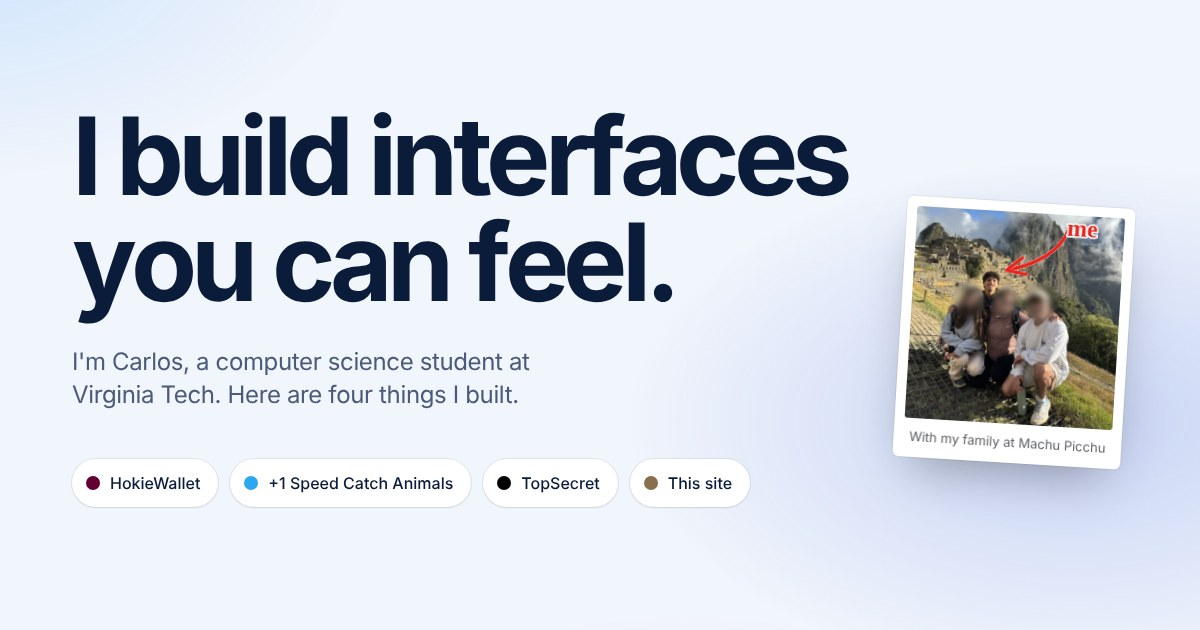
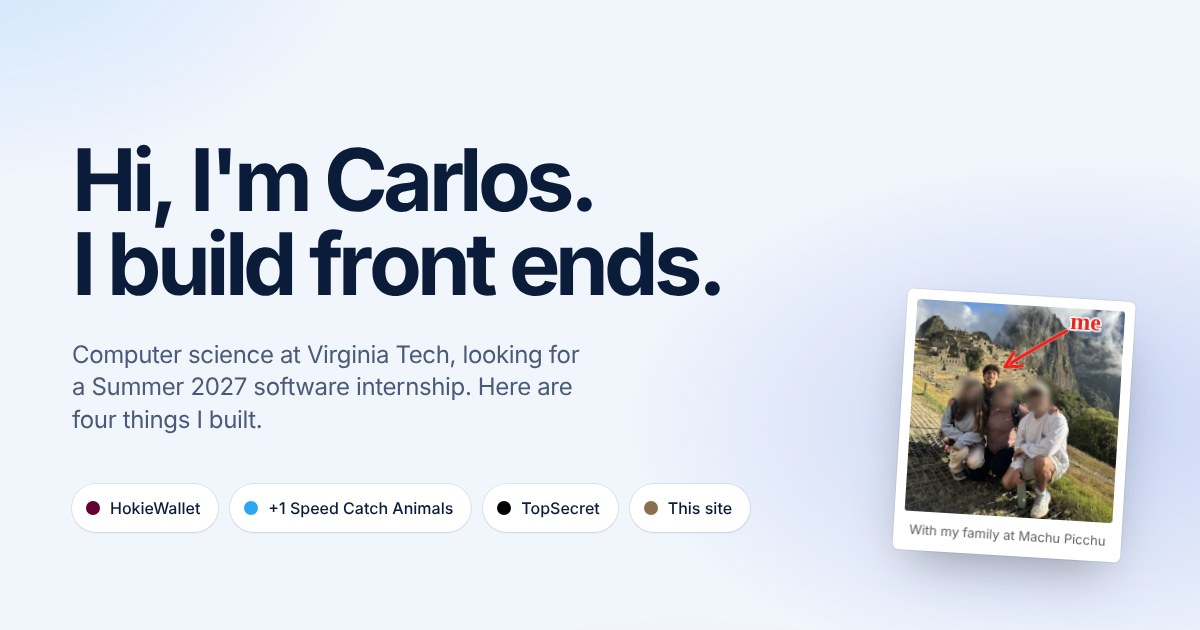
Real HokieWallet screens, new headline, email menu

diff --git a/code/templates/home.html b/code/templates/home.html
@@ -5,10 +5,10 @@
 <meta charset="utf-8">
 <meta name="viewport" content="width=device-width,initial-scale=1">
 <meta name="theme-color" content="#f1f5fc">
-<title>Carlos Zanabria, interfaces you can feel</title>
-<meta name="description" content="Carlos Zanabria builds interfaces. Scroll through HokieWallet, +1 Speed Catch Animals, TopSecret and this site. Computer Science at Virginia Tech, seeking Summer 2027 internships.">
+<title>Carlos Zanabria, front-end developer</title>
+<meta name="description" content="Carlos Zanabria builds front ends. Watch HokieWallet, +1 Speed Catch Animals, TopSecret and this site. Computer Science at Virginia Tech, seeking Summer 2027 internships.">
 <meta property="og:title" content="Carlos Zanabria">
-<meta property="og:description" content="I build interfaces you can feel. Four projects that play themselves. Computer Science at Virginia Tech.">
+<meta property="og:description" content="I build front ends. Four projects that play themselves. Computer science at Virginia Tech, seeking a Summer 2027 internship.">
 <meta property="og:type" content="website">
 <meta property="og:url" content="https://carlos-os-portfolio.onrender.com/">
 <meta property="og:image" content="https://carlos-os-portfolio.onrender.com/static/img/og.jpg">
@@ -16,9 +16,9 @@
 <meta property="og:image:height" content="630">
 <meta name="twitter:card" content="summary_large_image">
 <link rel="icon" href="{{ url_for('static',filename='favicon.svg') }}" type="image/svg+xml">
-<link rel="stylesheet" href="{{ url_for('static',filename='home.css') }}?v=6">
+<link rel="stylesheet" href="{{ url_for('static',filename='home.css') }}?v=7">
 <script>document.documentElement.classList.replace('no-js','js')</script>
-<script defer src="{{ url_for('static',filename='story.js') }}?v=6"></script>
+<script defer src="{{ url_for('static',filename='story.js') }}?v=7"></script>
 </head>
 <body class="home">
 <a class="skip" href="#main">Skip to content</a>
@@ -36,8 +36,8 @@
 
   <section class="intro" data-snap data-chapter="intro" data-bg="#f1f5fc" data-ink="light" aria-labelledby="intro-title">
     <div class="intro-stage">
-      <h1 id="intro-title" class="intro-title" data-split aria-label="I build interfaces you can feel.">I build interfaces <br>you can feel.</h1>
-      <p class="intro-lede">I'm Carlos, a computer science student at Virginia Tech. Here are four things I built.</p>
+      <h1 id="intro-title" class="intro-title" data-split aria-label="Hi, I'm Carlos. I build front ends.">Hi, I'm Carlos. <br>I build front ends.</h1>
+      <p class="intro-lede">Computer science at Virginia Tech, looking for a Summer 2027 software internship. Here are four things I built.</p>
       <ul class="jump" aria-label="Projects on this page">
         <li><a href="#hokiewallet"><span class="jump-swatch" style="--c:#630031"></span>HokieWallet</a></li>
         <li><a href="#plus-one"><span class="jump-swatch" style="--c:#2ba8f0"></span>+1 Speed Catch Animals</a></li>
@@ -48,9 +48,9 @@
         <div class="me-photo">
           <img src="{{ url_for('static',filename='img/me-machu-picchu.webp') }}" srcset="{{ url_for('static',filename='img/me-machu-picchu-sm.webp') }} 476w, {{ url_for('static',filename='img/me-machu-picchu.webp') }} 952w" sizes="(max-width: 860px) 60vw, 300px" width="952" height="969" alt="Carlos standing behind his family at Machu Picchu. A hand-drawn red arrow points to him.">
           <svg class="me-arrow" viewBox="0 0 952 969" aria-hidden="true">
-            <path class="arrow-line" pathLength="1" d="M700 60 C 660 180, 550 235, 428 268"/>
-            <path class="arrow-head" pathLength="1" d="M494 208 L 425 269 L 515 282"/>
-            <text x="760" y="95" text-anchor="middle">me</text>
+            <path class="arrow-line" pathLength="1" d="M690 105 Q 560 185 418 286"/>
+            <path class="arrow-head" pathLength="1" d="M498 278 L 418 286 L 456 216"/>
+            <text x="775" y="95" text-anchor="middle">me</text>
           </svg>
         </div>
         <figcaption>With my family at Machu Picchu</figcaption>
@@ -66,18 +66,18 @@
         <article class="beat" data-beat="0">
           <p class="kicker">Built at VTHacks with a team of four</p>
           <h2 id="wallet-title" class="beat-title big">HokieWallet</h2>
-          <p>A student finance dashboard. I owned the front end.</p>
+          <p>A student finance dashboard. I led the front end.</p>
         </article>
         <article class="beat" data-beat="1">
           <h3 class="beat-title">Every balance, one screen.</h3>
           <p>Built in React on a Node.js back end.</p>
         </article>
         <article class="beat" data-beat="2">
-          <h3 class="beat-title">Budgets you can read at a glance.</h3>
-          <p>What you've spent, and what's left.</p>
+          <h3 class="beat-title">Goals you can see.</h3>
+          <p>What you've saved, and what's left.</p>
         </article>
         <article class="beat" data-beat="3">
-          <h3 class="beat-title">More than ten languages.</h3>
+          <h3 class="beat-title">Ten languages.</h3>
           <p>Use it in the language you think in.</p>
         </article>
         <article class="beat" data-beat="4">
@@ -93,60 +93,15 @@
 
       <div class="device-wrap" aria-hidden="true">
         <div class="browser">
-          <div class="browser-bar"><i></i><i></i><i></i><span>hokiewallet.app</span></div>
-          <div class="hw">
-            <aside class="hw-side">
-              <b class="hw-logo">hw</b>
-              <span class="hw-nav" data-screen-link="1">Overview</span>
-              <span class="hw-nav" data-screen-link="2">Budgets</span>
-              <span class="hw-nav" data-screen-link="3">Language</span>
-              <span class="hw-nav" data-screen-link="4">Accessibility</span>
-            </aside>
-            <div class="hw-main">
-              <section class="hw-screen" data-screen="1">
-                <p class="hw-greet" data-greet>Good to see you, Hokie.</p>
-                <div class="hw-cards">
-                  <div class="hw-card"><span>Bank balance</span><strong data-count="1250.42" data-prefix="$">$1,250.42</strong></div>
-                  <div class="hw-card accent"><span>Hokie Dollars</span><strong data-count="347.80" data-prefix="$">$347.80</strong></div>
-                </div>
-                <ul class="hw-tx">
-                  <li><span>Turner Place</span><b>−$11.40</b></li>
-                  <li><span>Bookstore</span><b>−$32.15</b></li>
-                  <li><span>Paycheck</span><b class="in">+$412.00</b></li>
-                </ul>
-              </section>
-              <section class="hw-screen" data-screen="2">
-                <p class="hw-greet">November budget</p>
-                <ul class="hw-budgets">
-                  <li style="--used:.72"><span>Food</span><i></i><b>$216 of $300</b></li>
-                  <li style="--used:.45"><span>Books &amp; supplies</span><i></i><b>$90 of $200</b></li>
-                  <li style="--used:.9"><span>Transportation</span><i></i><b>$54 of $60</b></li>
-                  <li style="--used:.3"><span>Fun</span><i></i><b>$36 of $120</b></li>
-                </ul>
-              </section>
-              <section class="hw-screen" data-screen="3">
-                <p class="hw-greet hw-lang-greet" data-lang-greet>Good to see you, Hokie.</p>
-                <p class="hw-lang-name" data-lang-name>English</p>
-                <div class="hw-lang-dots" data-lang-dots></div>
-              </section>
-              <section class="hw-screen" data-screen="4">
-                <div class="hw-a11y">
-                  <ul class="hw-toggles">
-                    <li data-toggle="0"><span>Larger text</span><i></i></li>
-                    <li data-toggle="1"><span>High contrast</span><i></i></li>
-                    <li data-toggle="2"><span>Reduce motion</span><i></i></li>
-                  </ul>
-                  <div class="hw-preview" data-preview>
-                    <span>Hokie Dollars</span>
-                    <strong>$347.80</strong>
-                    <small>Updated just now</small>
-                  </div>
-                </div>
-              </section>
-            </div>
+          <div class="browser-bar"><i></i><i></i><i></i><span>Hokie Wallet</span></div>
+          <div class="hw-frame">
+            <img class="hw-real" data-screen="1" src="{{ url_for('static',filename='img/hw-overview.webp') }}" srcset="{{ url_for('static',filename='img/hw-overview-sm.webp') }} 800w, {{ url_for('static',filename='img/hw-overview.webp') }} 1600w" sizes="(max-width: 860px) 94vw, 56vw" width="1600" height="900" alt="">
+            <img class="hw-real" data-screen="2" src="{{ url_for('static',filename='img/hw-savings.webp') }}" srcset="{{ url_for('static',filename='img/hw-savings-sm.webp') }} 800w, {{ url_for('static',filename='img/hw-savings.webp') }} 1600w" sizes="(max-width: 860px) 94vw, 56vw" width="1600" height="900" alt="" loading="lazy">
+            <img class="hw-real" data-screen="3" src="{{ url_for('static',filename='img/hw-spanish.webp') }}" srcset="{{ url_for('static',filename='img/hw-spanish-sm.webp') }} 800w, {{ url_for('static',filename='img/hw-spanish.webp') }} 1600w" sizes="(max-width: 860px) 94vw, 56vw" width="1600" height="900" alt="" loading="lazy">
+            <img class="hw-real" data-screen="4" src="{{ url_for('static',filename='img/hw-access.webp') }}" srcset="{{ url_for('static',filename='img/hw-access-sm.webp') }} 800w, {{ url_for('static',filename='img/hw-access.webp') }} 1600w" sizes="(max-width: 860px) 94vw, 56vw" width="1600" height="900" alt="" loading="lazy">
           </div>
         </div>
-        <details class="how"><summary>How it works</summary><p>A clip-path circle reveal, then one stage whose screens, counters and toggles play on a timer you can pause. Sample data.</p></details>
+        <details class="how"><summary>How it works</summary><p>A clip-path circle reveal, then real screens from the app playing on a timer you can pause. Captured in demo mode with sample data.</p></details>
       </div>
     </div>
   </section>
@@ -319,7 +274,16 @@
     <h2 id="contact-title" class="contact-title">Let's build something.</h2>
     <p class="contact-lede">I'm looking for a Summer 2027 software or data internship in Northern Virginia or remote.</p>
     <p class="actions center">
-      <a class="btn solid" href="mailto:andrezanabria6180@gmail.com">Email me</a>
+      <span class="mail" data-mail>
+        <button type="button" class="btn solid" aria-haspopup="true" aria-expanded="false" aria-controls="mail-menu">Email me</button>
+        <span class="mail-menu" id="mail-menu" hidden>
+          <span class="mail-addr">andrezanabria6180@gmail.com</span>
+          <a href="https://mail.google.com/mail/?view=cm&amp;fs=1&amp;to=andrezanabria6180@gmail.com" target="_blank" rel="noopener">Open in Gmail</a>
+          <a href="https://outlook.office.com/mail/deeplink/compose?to=andrezanabria6180@gmail.com" target="_blank" rel="noopener">Open in Outlook</a>
+          <a href="mailto:andrezanabria6180@gmail.com">Open in my mail app</a>
+          <button type="button" data-copy="andrezanabria6180@gmail.com">Copy address</button>
+        </span>
+      </span>
       <a class="btn ghost" href="{{ url_for('static',filename='Carlos_Zanabria_Resume_Updated.pdf') }}">Download résumé</a>
     </p>
     <p class="contact-links"><a href="https://github.com/CarlosZanabria618">GitHub</a><a href="https://www.linkedin.com/in/carlos-zanabria">LinkedIn</a><a href="{{ url_for('resume') }}">Résumé page</a></p>

diff --git a/code/static/home.css b/code/static/home.css
@@ -327,3 +327,41 @@ kbd{font:inherit;font-size:.9em;padding:1px 7px;border-radius:6px;background:#ff
   .marquee.alt span:nth-child(n+9){display:none}
 }
 body:not(.ink-dark) .next-btn{background:var(--navy);color:#fff}
+
+/* How it works: tucked behind a small pill so the stage stays quiet */
+.how{margin-top:16px;font-size:13px;color:var(--ink-2);text-align:center;max-width:52ch}
+.how summary{display:inline-block;list-style:none;cursor:pointer;padding:6px 14px;border-radius:999px;background:color-mix(in srgb,var(--ink) 9%,transparent);color:var(--ink);font-weight:600;font-size:12.5px}
+.how summary::-webkit-details-marker{display:none}
+.how summary::after{content:" +"}
+.how[open] summary::after{content:" −"}
+.how p{margin-top:10px;line-height:1.45}
+.ch-game .how,.ch-game .how summary{color:#05324f}
+.js .chapter .stage{cursor:pointer}
+.chapter .stage a,.chapter .stage button{cursor:pointer}
+.me{width:clamp(200px,19vw,280px)}
+@media (max-width:860px){.how{margin-top:8px}.me{width:min(62vw,260px)}}
+
+/* HokieWallet: real app screens */
+.browser{aspect-ratio:auto;background:#17121a}
+.browser-bar{background:#221a26;border-bottom-color:#33283a}
+.browser-bar i{background:#4a3d52}.browser-bar span{color:#b9adc2}
+.hw-frame{position:relative;aspect-ratio:16/9;overflow:hidden}
+.hw-real{position:absolute;inset:0;width:100%;height:100%;object-fit:cover;opacity:0;transform:scale(1.03);transition:opacity .55s var(--ease),transform .9s var(--ease)}
+.hw-real.is-on{opacity:1;transform:none}
+.no-js .hw-real[data-screen="1"]{opacity:1;transform:none}
+@media (max-width:860px){.browser{height:auto}}
+/* Email menu */
+.mail{position:relative;display:inline-block}
+.mail .btn{border:0;font:inherit;font-size:16px;font-weight:600;cursor:pointer}
+.mail-menu{position:absolute;left:50%;bottom:calc(100% + 12px);transform:translateX(-50%);z-index:5;display:grid;min-width:250px;padding:8px;border-radius:16px;background:#fff;box-shadow:0 24px 50px -16px rgba(11,27,58,.4),0 0 0 1px rgba(11,27,58,.08);text-align:left}
+.mail-menu[hidden]{display:none}
+.mail-addr{padding:8px 12px 10px;font-size:13px;color:#4b5a7a;border-bottom:1px solid #e6ecf7;margin-bottom:6px;user-select:all}
+.mail-menu a,.mail-menu button{display:block;width:100%;padding:10px 12px;border:0;border-radius:10px;background:none;font:inherit;font-size:15.5px;font-weight:500;color:var(--navy);text-align:left;text-decoration:none;cursor:pointer}
+.mail-menu a:hover,.mail-menu button:hover,.mail-menu a:focus-visible,.mail-menu button:focus-visible{background:#eef3fd}
+.ch-wallet .stage{grid-template-columns:minmax(280px,.62fr) 1.38fr}
+.ch-wallet .device-wrap{width:100%;min-width:0}
+.ch-wallet .browser{width:100%;max-width:940px}
+@media (max-width:860px){.ch-wallet .stage{grid-template-columns:1fr}}
+.intro-title{font-size:clamp(46px,7.2vw,106px)}
+.me{bottom:-24px}
+@media (max-width:860px){.me{bottom:auto}}

diff --git a/code/static/story.js b/code/static/story.js
@@ -267,6 +267,21 @@
     if (testsBar) testsBar.classList.toggle('ok', c > checks.length);
   }
 
+  /* Email menu: Gmail, Outlook, default mail app, or copy */
+  document.querySelectorAll('[data-mail]').forEach(wrap => {
+    const btn = wrap.querySelector('button'), menu = wrap.querySelector('.mail-menu');
+    const set = open => { menu.hidden = !open; btn.setAttribute('aria-expanded', String(open)); if (open) menu.querySelector('a').focus(); };
+    btn.addEventListener('click', e => { e.stopPropagation(); set(menu.hidden); });
+    document.addEventListener('click', e => { if (!wrap.contains(e.target)) set(false); });
+    wrap.addEventListener('keydown', e => { if (e.key === 'Escape') { set(false); btn.focus(); } e.stopPropagation(); });
+    const copy = wrap.querySelector('[data-copy]');
+    copy.addEventListener('click', async () => {
+      try { await navigator.clipboard.writeText(copy.dataset.copy); copy.textContent = 'Copied'; }
+      catch { copy.textContent = copy.dataset.copy; }
+      setTimeout(() => { copy.textContent = 'Copy address'; }, 1800);
+    });
+  });
+
   /* Contact buttons lean toward the pointer */
   document.querySelectorAll('.contact .btn').forEach(b => {
     b.addEventListener('pointermove', e => {
@@ -280,10 +295,10 @@
   /* Playback: each chapter fills one screen and plays its beats on a timer.
      Arrow keys, Page Up/Down and Space jump a whole chapter. */
   const timing = {
-    wallet: [3000, 2600, 2600, 3600, 3000, 4000],
-    game: [3000, 2600, 2800, 4400, 3600],
-    secret: [2800, 2400, 2600, 2400, 3400],
-    os: [2800, 3200, 3600],
+    wallet: [2200, 1900, 1900, 2800, 2300, 3200],
+    game: [2200, 1900, 2000, 3400, 2800],
+    secret: [2000, 1800, 2000, 1800, 2600],
+    os: [2000, 2400, 2800],
   };
   const play = chapters.filter(ch => timing[ch.name]);
   play.forEach(ch => {
@@ -301,6 +316,14 @@
     ch.pp = bar.querySelector('.pp');
     ch.segs = [...bar.querySelectorAll('.seg')];
     ch.segs.forEach((b, k) => b.addEventListener('click', () => { ch.t = ch.durs.slice(0, k).reduce((a, d) => a + d, 0) + 1; ch.paused = false; }));
+    // Click or tap anywhere on the stage to skip to the next part
+    ch.el.addEventListener('click', e => {
+      if (e.target.closest('a,button,canvas,details,summary')) return;
+      const [step] = timeline(ch);
+      if (ch.t >= ch.total || step >= ch.durs.length - 1) { go(1); return; }
+      ch.t = ch.durs.slice(0, step + 1).reduce((x, d) => x + d, 0) + 1;
+      ch.paused = false;
+    });
     ch.pp.addEventListener('click', () => {
       if (ch.t >= ch.total) { ch.t = 0; ch.paused = false; }
       else ch.paused = !ch.paused;

diff --git a/code/templates/base.html b/code/templates/base.html
@@ -4,11 +4,11 @@
 <meta charset="utf-8"><meta name="viewport" content="width=device-width,initial-scale=1">
 <meta name="theme-color" content="#f1f5fc"><meta name="color-scheme" content="light">
 <title>{{ title }} · Carlos Zanabria</title>
-<meta name="description" content="Carlos Zanabria builds interfaces. Computer Science at Virginia Tech, seeking Summer 2027 internships.">
-<meta property="og:title" content="{{ title }} · Carlos Zanabria"><meta property="og:description" content="I build interfaces you can feel. Computer Science at Virginia Tech."><meta property="og:type" content="website">
+<meta name="description" content="Carlos Zanabria builds front ends. Computer Science at Virginia Tech, seeking Summer 2027 internships.">
+<meta property="og:title" content="{{ title }} · Carlos Zanabria"><meta property="og:description" content="I build front ends. Computer science at Virginia Tech."><meta property="og:type" content="website">
 <meta property="og:image" content="https://carlos-os-portfolio.onrender.com/static/img/og.jpg"><meta property="og:image:width" content="1200"><meta property="og:image:height" content="630"><meta name="twitter:card" content="summary_large_image">
 <link rel="icon" href="{{ url_for('static',filename='favicon.svg') }}" type="image/svg+xml">
-<link rel="stylesheet" href="{{ url_for('static',filename='pages.css') }}?v=1">
+<link rel="stylesheet" href="{{ url_for('static',filename='pages.css') }}?v=2">
 </head><body>
 <a class="skip" href="#main">Skip to content</a>
 <header class="topbar">

diff --git a/code/templates/detail.html b/code/templates/detail.html
@@ -15,6 +15,7 @@
       </div>
     </div>
   </header>
+  {% if item.slug == 'hokiewallet' %}<div class="content-wrap"><img class="case-shot" src="{{ url_for('static',filename='img/hw-overview.webp') }}" width="1600" height="900" alt="The Hokie Wallet overview screen in dark mode, showing bank balance, campus funds and spending this month, with sample data."></div>{% endif %}
   <div class="content-wrap case-body">
     <section class="case-story"><h2>What I did</h2><p>{{ item.detail }}</p></section>
     <aside class="case-facts" aria-label="Project overview">

diff --git a/code/static/pages.css b/code/static/pages.css
@@ -111,3 +111,4 @@ h1,h2,h3,p,dl,dd{margin:0}
   .resume-section h2{grid-row:auto}
 }
 @media (prefers-reduced-motion:reduce){*{transition-duration:.01ms!important}}
+.case-shot{display:block;width:100%;height:auto;margin-top:-5vh;border-radius:18px;box-shadow:0 40px 80px -30px rgba(11,27,58,.55),0 0 0 1px rgba(11,27,58,.1)}
